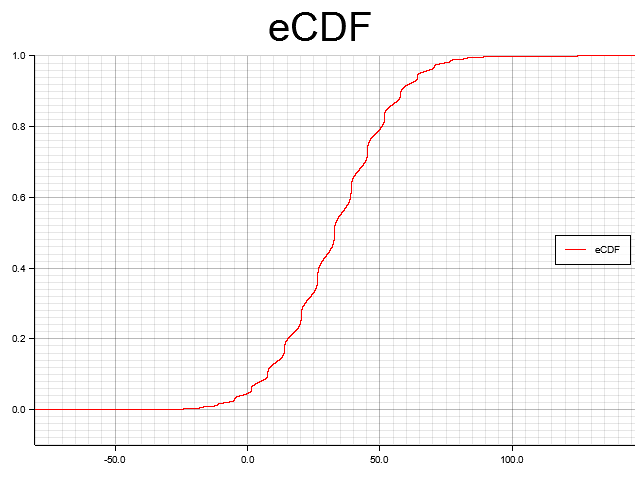
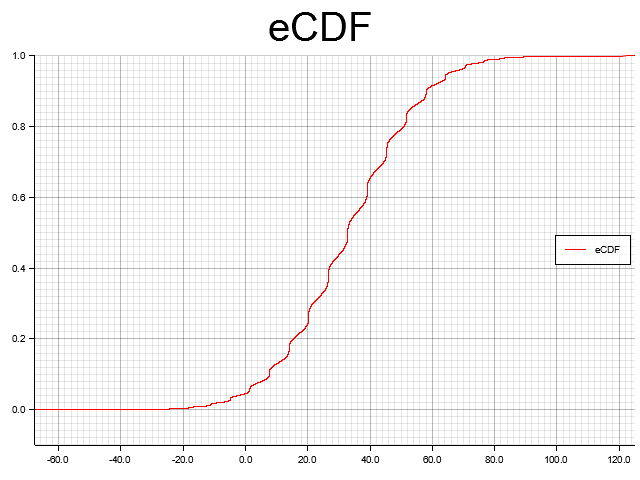
adding a quantile function

diff --git a/cli/src/main.rs b/cli/src/main.rs
@@ -159,7 +159,16 @@ fn plot_ecdf(data: &ExperimentalCumulativeDistributionFunction) {
 pub fn main() {
     let mut rng = thread_rng();
     let b = Biegebalken {};
-    let ecdf = b.stochastics_analysis(0.95, 1e-4, 0.95, &mut rng);
+    let ecdf = b.stochastics_analysis(0.95, 1e-3, 0.95, &mut rng);
     println!("{:?}", ecdf.get_samples().len());
+    println!("{}", ecdf.quantile(0.1));
+    println!("{}", ecdf.quantile(0.2));
+    println!("{}", ecdf.quantile(0.3));
+    println!("{}", ecdf.quantile(0.4));
+    println!("{}", ecdf.quantile(0.5));
+    println!("{}", ecdf.quantile(0.6));
+    println!("{}", ecdf.quantile(0.7));
+    println!("{}", ecdf.quantile(0.8));
+    println!("{}", ecdf.quantile(0.95));
     plot_ecdf(&ecdf);
 }

diff --git a/fuzzy/src/stochastic.rs b/fuzzy/src/stochastic.rs
@@ -55,6 +55,12 @@ impl ECDF {
 
         return res;
     }
+
+    pub fn quantile(&self, quant: f64) -> f64 {
+        let step = 1.0/(self.samples.len() as f64);
+        let approx_index = (quant / step).floor() as usize;
+        return self.samples[approx_index];
+    }
 }
 
 pub trait StochasticAnalysis<R: Rng> {
